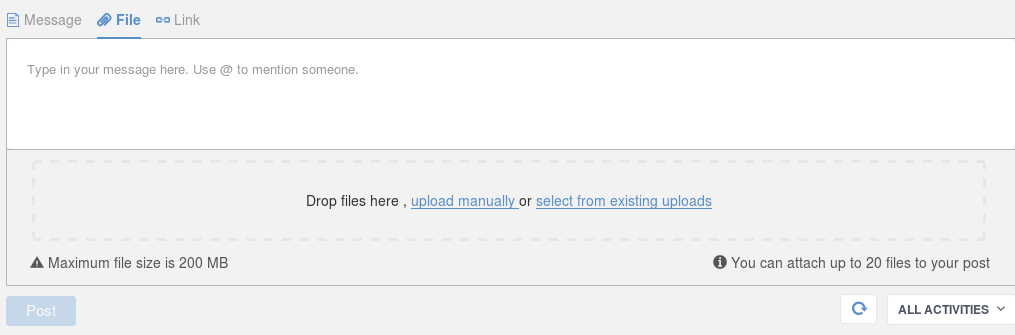
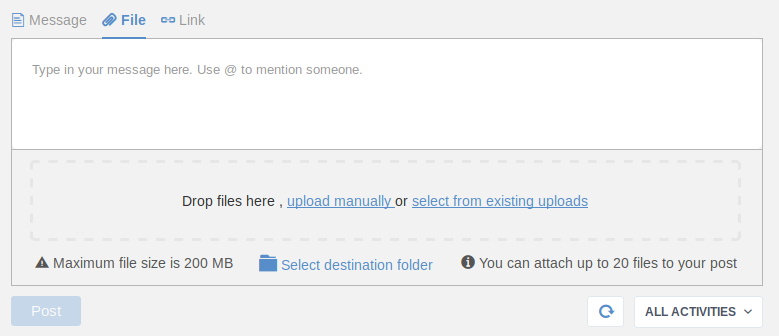
DOC-4318: Document the new feature of Allowing users to classify upladed files in AS

diff --git a/docs/Manage-Documents.rst b/docs/Manage-Documents.rst
@@ -1908,6 +1908,9 @@ eXo Platform.
 
    When droping the file, the area dedicated to the files upload is
    greyed.
+   While the file is being attached, you can click on the |folder| icon
+   to choose a destination folder where to store the file. More details in 
+   the :ref:`Activity stream file's classification section <_AS_Files_Classification>`.
 
 -  upload manually: Allows you to select documents from your hard disc.
 
@@ -1916,6 +1919,12 @@ eXo Platform.
    Cliking on upload manually opens a window showing a drive from your
    hard disk (it opens files drive for mobile devices) and allows you to
    select one or many files.
+   Same as for dropped files, you can select a destination folder for each file
+   by clicking on |folder2| icon:
+   
+   |destination|
+   
+   More details in the :ref:`Activity stream file's classification <_AS_Files_Classification>` section.
 
 -  select from existing uploads: Allows you to select documents from
    your eXo Platform drives.
@@ -2082,6 +2091,50 @@ Multiple file sharing conditions
    file is already attached.
 
    |image167|
+   
+.. _AS_Files_Classification:   
+
+Activity stream file's classification
+````````````````````````````````````````
+
+When sharing multiple files in the activity stream by uploading them from your hard disk
+either by dragging and dropping or uploading them manually, you can classify them and choose
+a destination folder of your choice to store them.
+
+For that purpose, you just need to click on ``Select destination folder`` link.
+
+|dest_folder|
+
+A popup of the documents drives appears allowing you to select a destination folder.
+
+.. note:: If you are uploading files in your activity stream, the select folder popup opens in 
+          **Personal Documents** drive.
+          If you are uploading files in a space's activity stream, the select folder popup opens in 
+          space's drive.
+                    
+After selecting the files to upload from your hard disk, you can define a destination folder for each of them
+by clicking on |folder_icon| in the file's line.
+
+ 
+|destination_file|
+
+After choosing a destination folder, the select folder button switch to display the drive selected with a cancale icon
+allowing to restore the default choices.
+
+|destination_selected|
+
+-  If the user cancels a destination folder for a file, the default destination will be the choice done for all files
+-  If the user cancels the selected destination folder for all files, files will be stored in the default folder i.e. 
+   ``Activity Stream Documents`` if no selected destination for them.
+
+.. note:: If you don't select a destination folder for each of the attached files, the destination chosen
+          in the first step will be the destination of all files.
+          If you also did not select a destination neither for all files neither for each file, attached files
+          will be stored in the default destination i.e.:
+            
+            -  ``Space drive/Activity Stream Documents`` if the post is in a space's activity stream
+            -  ``Personal Documents/Public/Activity Stream Documents`` if the post is in your activity stream.
+               
 
 .. _ActivityForDocChanges:
 
@@ -2885,3 +2938,10 @@ information.
 .. |edit| image:: images/ecms/edit.png
 .. |edit1| image:: images/ecms/edit.png
 .. |warning| image:: images/ecms/warning.png
+.. |folder| image:: images/ecms/folder_icon.png
+.. |folder2| image:: images/ecms/folder_icon.png
+.. |folder_icon| image:: images/ecms/folder_icon.png
+.. |destination| image:: images/ecms/destination_folder.png
+.. |dest_folder| image:: images/ecms/dest_folder_link.png
+.. |destination_file| image:: images/ecms/file_dest.png
+.. |destination_selected| image:: images/ecms/destination_selected.png

diff --git a/docs/GettingStarted.rst b/docs/GettingStarted.rst
@@ -1108,8 +1108,10 @@ file appears:
 
 |image70|
 
-Select the desired file or files. More details in :ref:`Share multiple documents in activity stream <MultiUpload>` 
-section.
+Select the desired file or files either from your hard disk or from existing uploads in the documents application. 
+
+.. note:: Uploaded files could be classified in different folders. 
+          More details in :ref:`Share multiple documents in activity stream <MultiUpload>` section.
 
 You can add a text message or not and then click on |image71| button to
 share the file(s) in the activity stream.
